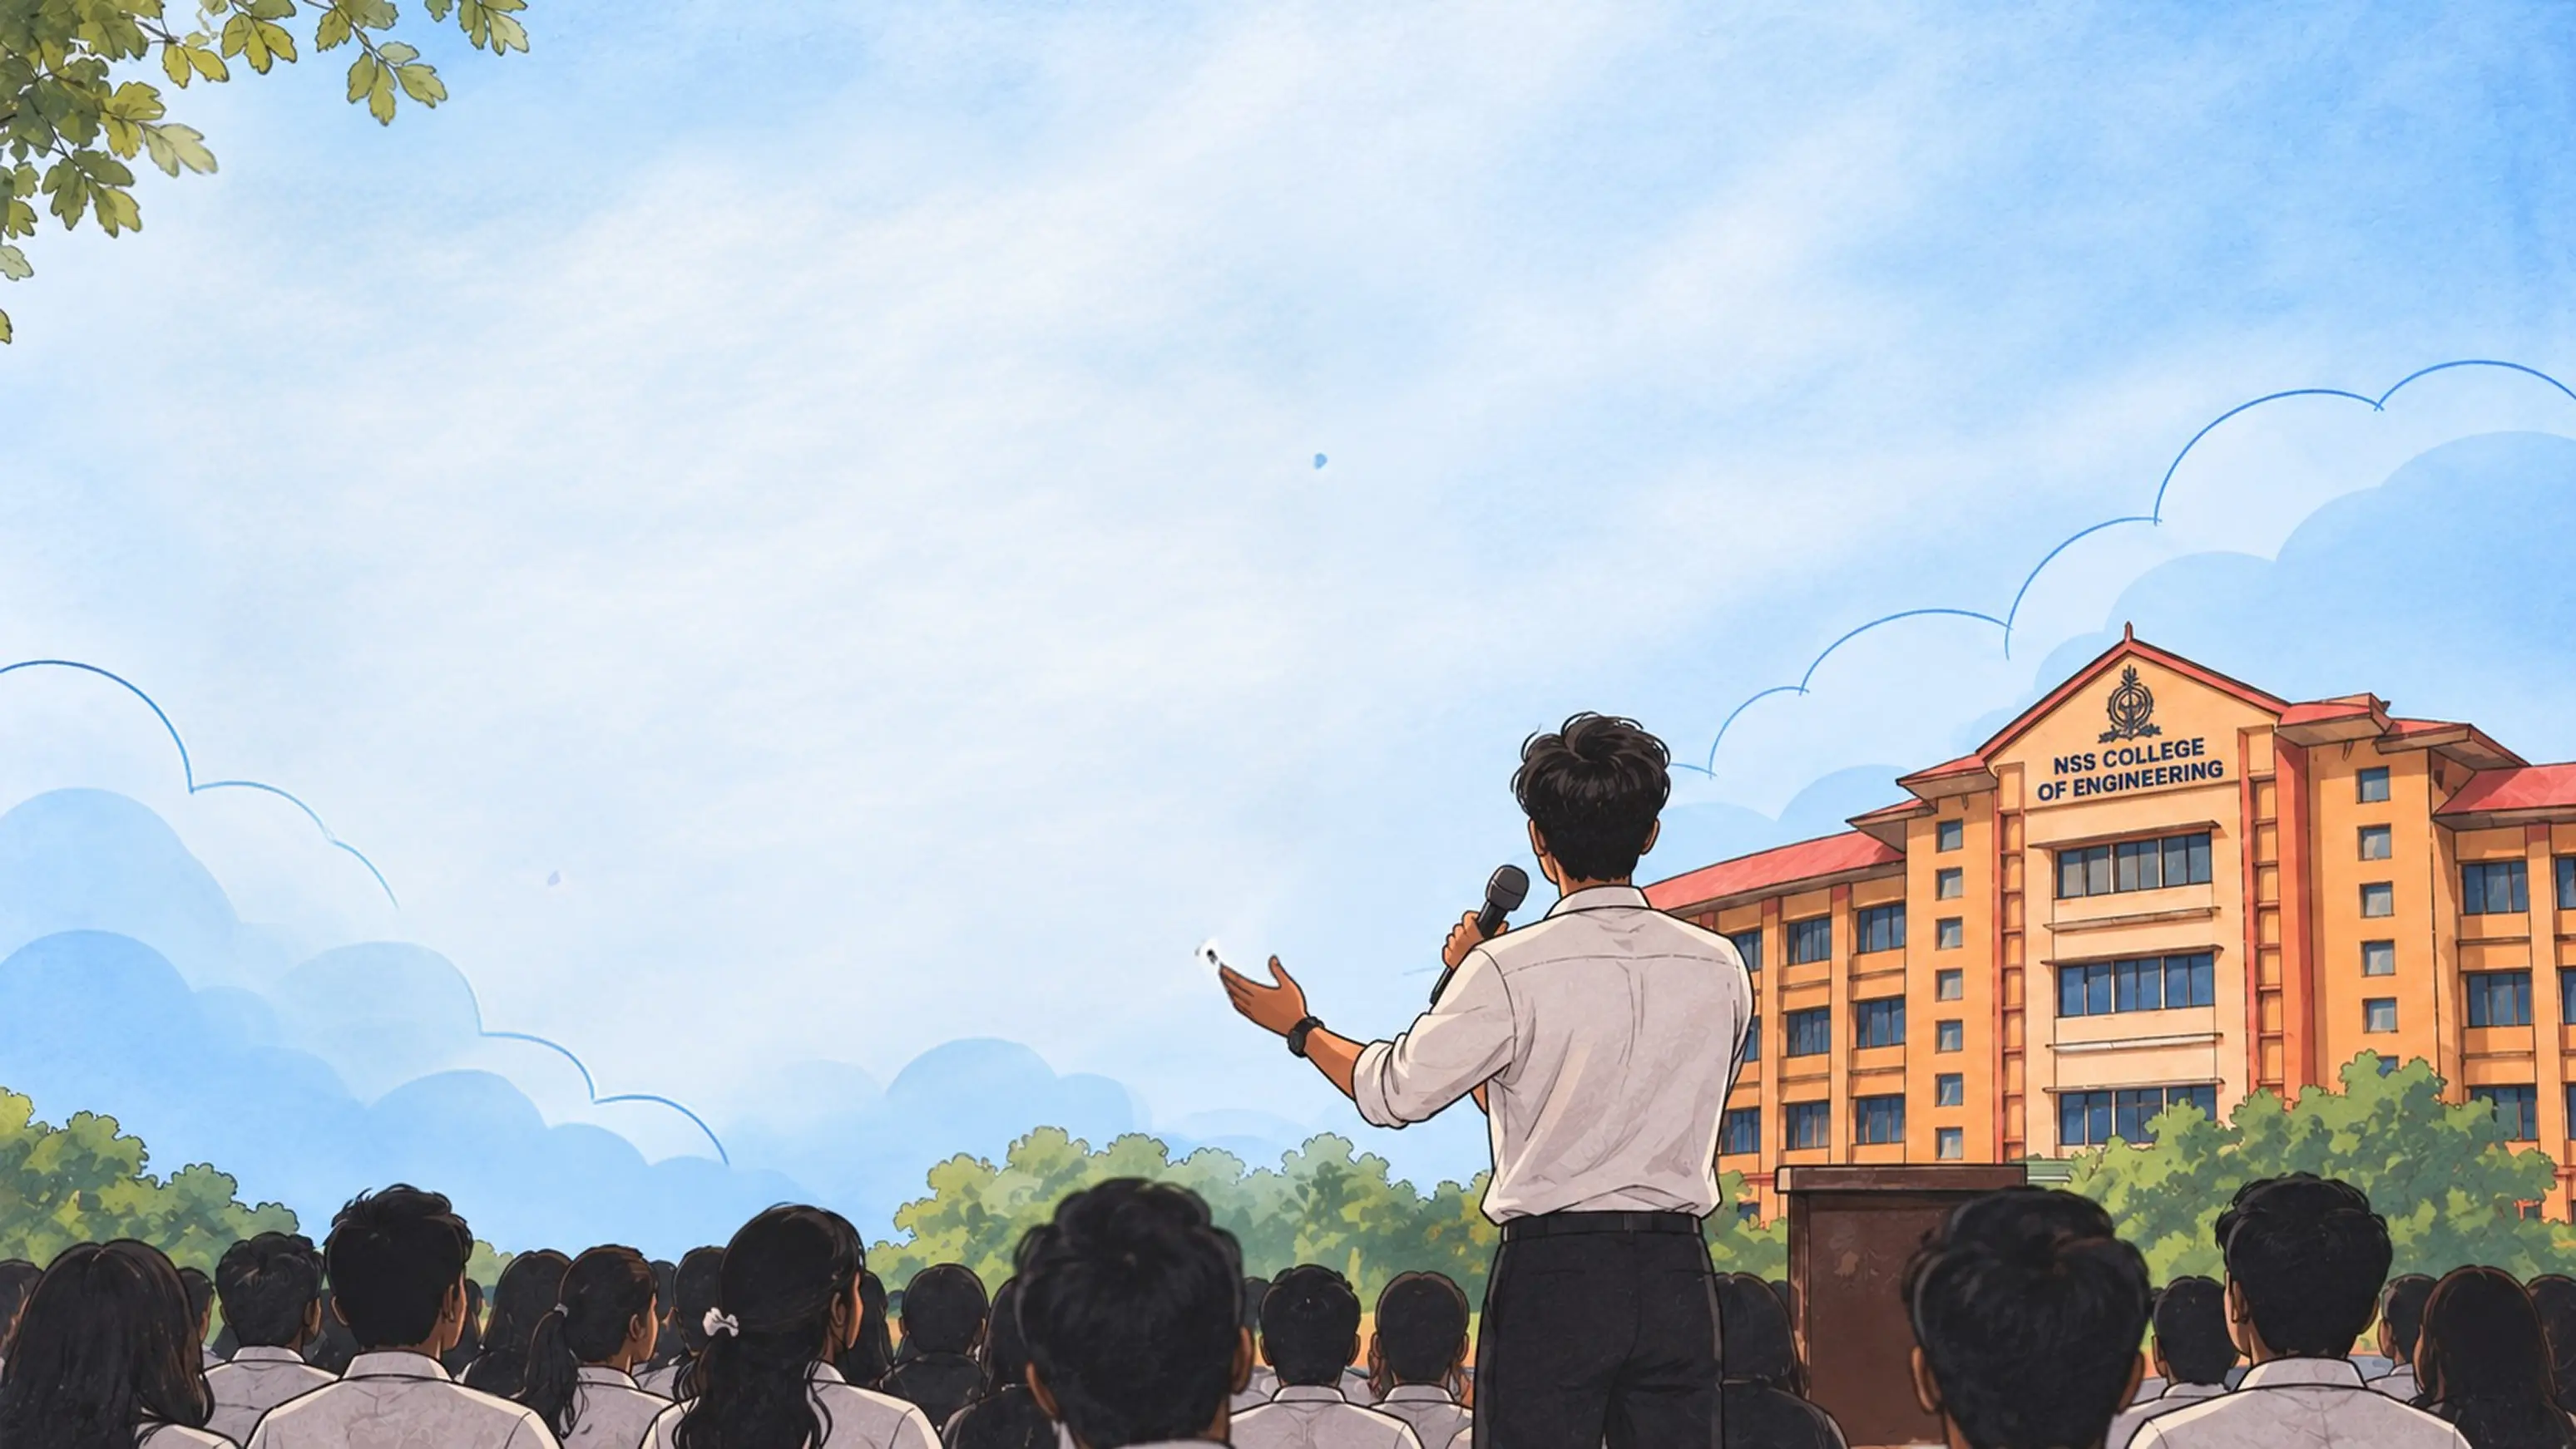
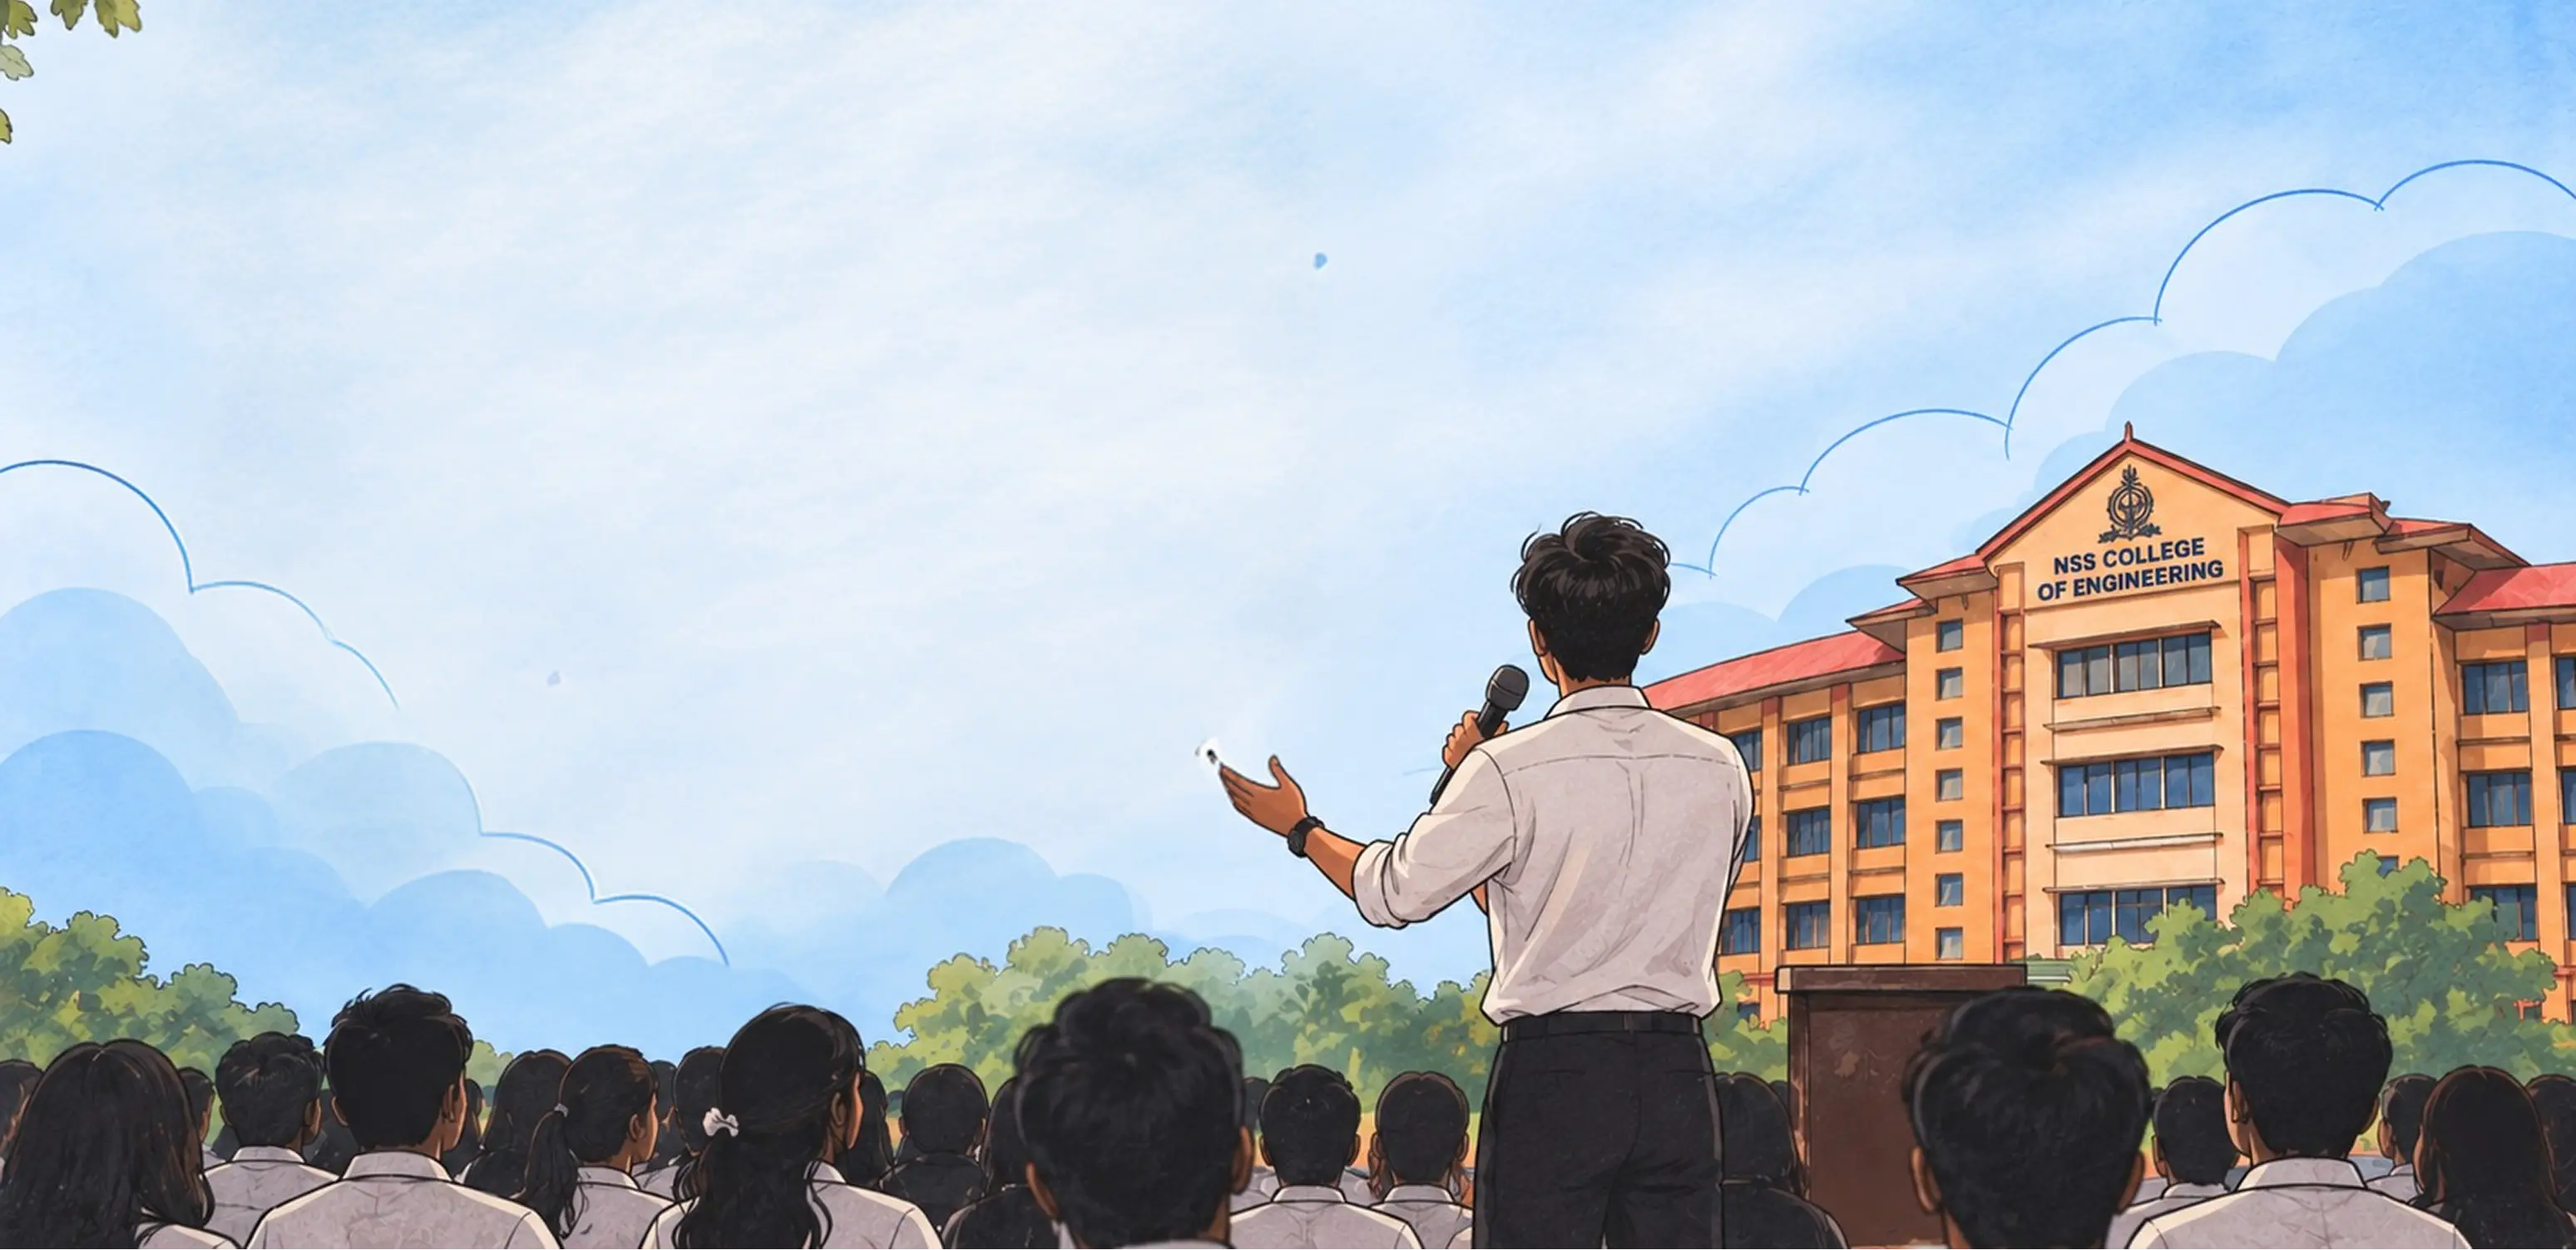
style: shift about section heading, description, and stats upward

diff --git a/src/components/CollegeSection.tsx b/src/components/CollegeSection.tsx
@@ -19,8 +19,8 @@ export const CollegeSection: React.FC = () => {
       </div>
 
       {/* Main Content Overlay - Positioned on the left open-sky area (100vh) */}
-      <div className="relative z-10 w-full min-h-screen min-h-[100dvh] flex items-center py-12 sm:py-16 md:py-20 lg:py-24">
-        <div className="max-w-7xl mx-auto px-6 sm:px-10 md:px-14 lg:px-20 w-full">
+      <div className="relative z-10 w-full min-h-screen min-h-[100dvh] flex items-center pt-8 sm:pt-12 md:pt-14 pb-24 sm:pb-28 md:pb-32 lg:pb-36">
+        <div className="max-w-7xl mx-auto px-6 sm:px-10 md:px-14 lg:px-20 w-full -translate-y-6 sm:-translate-y-10 md:-translate-y-14 lg:-translate-y-16">
           <motion.div
             initial={{ opacity: 0, y: 30 }}
             whileInView={{ opacity: 1, y: 0 }}
